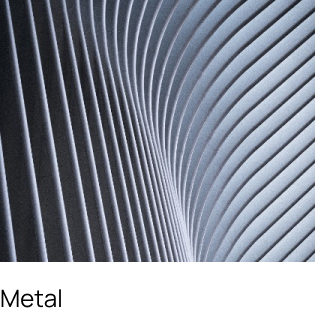
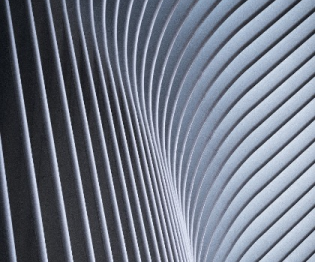
Materials section

diff --git a/src/sections/UsedMaterials.jsx b/src/sections/UsedMaterials.jsx
@@ -1,5 +1,41 @@
+import { assetPaths } from "../constants";
+
 const UsedMaterials = () => {
-  return <div>UsedMaterials</div>;
+  return (
+    <section className="container mb-[144px]">
+      <h3 className="font-cabinet tracking-tight text-7xl mb-14">
+        We use quality and
+        <br />
+        simple materials
+      </h3>
+      <div className="grid grid-cols-2 md:grid-cols-4 gap-4 md:gap-11">
+        <div className="flex flex-col gap-6">
+          <img src={assetPaths.woodMaterial} className="" />
+          <p className="text-base xs:text-lg md:text-xl xl:text-2xl font-manrope">
+            Natural wood
+          </p>
+        </div>
+        <div className="flex flex-col gap-6 md:row-span-2 md:self-end">
+          <img src={assetPaths.leatherMaterial} className="" />
+          <p className="text-base xs:text-lg md:text-xl xl:text-2xl font-manrope">
+            Leather
+          </p>
+        </div>
+        <div className="flex flex-col gap-6">
+          <img src={assetPaths.playMaterial} className="" />
+          <p className="text-base xs:text-lg md:text-xl xl:text-2xl font-manrope">
+            Play wood
+          </p>
+        </div>
+        <div className="flex flex-col gap-6 md:row-span-2 md:self-end">
+          <img src={assetPaths.metalMaterial} className="" />
+          <p className="text-base xs:text-lg md:text-xl xl:text-2xl font-manrope">
+            Metal
+          </p>
+        </div>
+      </div>
+    </section>
+  );
 };
 
 export default UsedMaterials;

diff --git a/src/sections/Philosophy.jsx b/src/sections/Philosophy.jsx
@@ -2,17 +2,17 @@ import { assetPaths } from "../constants";
 
 const Philosophy = () => {
   return (
-    <section className="container relative mb-[125px]  ">
+    <section className="container relative mb-[125px]">
       <div className="flex justify-center w-full">
-        <h2 className="h2-custom leading-[98px] mb-9">
+        <h2 className="h2-custom leading-[98px] mb-9 tracking-tight">
           Futuristic &<br />
           Minimalist.
         </h2>
       </div>
       <div className="flex flex-col gap-9 ml-40 xs:ml-52 sm:ml-[380px] md:ml-[476px] lg:ml-[600px] xl:ml-[780px]">
-        <h3 className="font-darker text-base xs:text-lg md:text-xl lg:text-[28px] xl:text-[32px] font-bold">
+        <h4 className="font-darker text-base xs:text-lg md:text-xl lg:text-[28px] xl:text-[32px] font-bold">
           Our Philosophy,
-        </h3>
+        </h4>
         <p className="font-manrope text-sm xs:text-base md:text-lg lg:text-xl xl:text-2xl text-ashGray max-w-49ch xl:leading-9">
           You don’t have to worry about the results because all of these
           interiors are made by people who are professionals in their fields

diff --git a/src/sections/Hero.jsx b/src/sections/Hero.jsx
@@ -9,7 +9,7 @@ const Hero = () => {
     >
       <div className="relative z-10 text-white pb-20 md:pb-[88px] container mx-auto flex items-end justify-end h-full">
         <div className="text-left ml-10 md:ml-20 lg:ml-24 xl:ml-28 2xl:ml-32 ">
-          <h1 className="font-cabinet text-[40px] md:text-6xl lg:text-[88px] xl:text-[100px] 2xl:text-[120px]">
+          <h1 className="font-cabinet tracking-tight text-[40px] md:text-6xl lg:text-[88px] xl:text-[100px] 2xl:text-[120px]">
             You buy a house,
             <br />
             we make it a home.

diff --git a/src/sections/Experience.jsx b/src/sections/Experience.jsx
@@ -5,7 +5,7 @@ const Experience = () => {
   return (
     <section className="relative flex container">
       <div className="mt-16 xs:mt-24 md:mt-32 lg:mt-[156px] padding-left mr-8 z-10">
-        <h2 className="h2-custom mb-10">
+        <h2 className="h2-custom mb-10 tracking-tight">
           We provide you the
           <br />
           best experience.

diff --git a/tailwind.config.js b/tailwind.config.js
@@ -67,5 +67,13 @@ export default {
         },
       });
     },
+
+    function ({ addUtilities }) {
+      addUtilities({
+        ".tracking-tight": {
+          letterSpacing: "-2.4px",
+        },
+      });
+    },
   ],
 };
